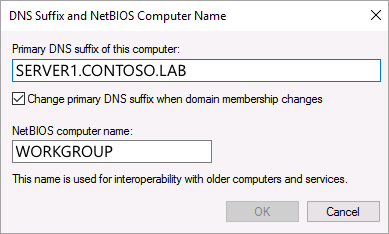
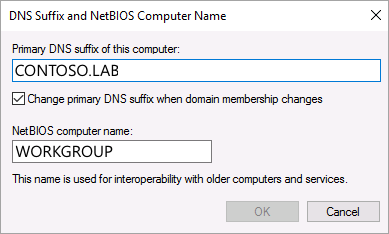
Fix UUF documentation issues: links, permissions, code, portal UI, setup wizard (#36666)
* Fix UUF content issues: broken link, priority clarification, DNS suffix guidance

* Apply suggestions from PR review

---------

Changed region(s): [[0.0308, 0.2692, 0.4936, 0.3291]]

diff --git a/docs/relational-databases/backup-restore/deleting-backup-blob-files-with-active-leases.md b/docs/relational-databases/backup-restore/deleting-backup-blob-files-with-active-leases.md
@@ -3,7 +3,7 @@ title: "Deleting Backup Blob Files with Active Leases"
 description: If a SQL Server backup or restore fails, a blob in Azure Storage can become orphaned. Learn how to delete an orphaned blob.
 author: MashaMSFT
 ms.author: mathoma
-ms.date: "08/17/2017"
+ms.date: "02/20/2026"
 ms.service: sql
 ms.subservice: backup-restore
 ms.topic: how-to
@@ -12,31 +12,31 @@ ms.topic: how-to
 
  [!INCLUDE [SQL Server](../../includes/applies-to-version/sqlserver.md)]
 
-When backing up to or restoring from Microsoft Azure storage, SQL Server acquires an infinite lease to lock exclusive access to the blob. When the backup or restore process is successfully completed, the lease is released. If a backup or restore fails, the backup process attempts to clean up any invalid blobs. However, if the backup fails due to prolonged or sustained network connectivity failure, the backup  process may not be able gain access to the blob and the blob may remain orphaned. This means the blob cannot be written to or deleted until the lease is released. This topic describes how to release (break) the lease and delete the blob.
+When you back up to or restore from Microsoft Azure storage, SQL Server acquires an infinite lease to lock exclusive access to the blob. When the backup or restore process finishes successfully, the process releases the lease. If a backup or restore fails, the backup process tries to clean up any invalid blobs. However, if prolonged or sustained network connectivity failure causes the backup to fail, the backup process might not be able to access the blob and the blob might remain orphaned. This condition means the blob can't be written to or deleted until the lease is released. This article describes how to release (break) the lease and delete the blob.
   
-For more information on lease types, read this [article](/rest/api/storageservices/Lease-Blob).  
+For more information, see [Lease Blob (REST API)](/rest/api/storageservices/Lease-Blob). 
   
-If the backup operation fails, it can result in an invalid backup file. The backup blob file might also have an active lease, preventing it from being deleted or overwritten. To delete or overwrite such blobs, the lease should first be released (broken). If there are backup failures, we recommend that you clean up leases and delete blobs. You can also periodically clean up leases and delete blobs as part of your storage management tasks.  
+If the backup operation fails, it can result in an invalid backup file. The backup blob file might also have an active lease, preventing it from being deleted or overwritten. To delete or overwrite such blobs, first release (break) the lease. If backup failures occur, clean up leases and delete blobs. You can also periodically clean up leases and delete blobs as part of your storage management tasks.  
   
-If there is a restore failure, subsequent restores are not blocked, so active lease may not be an issue. Breaking the lease is only necessary when you have to overwrite or delete the blob.  
+If a restore failure occurs, subsequent restores aren't blocked, so active lease might not be an issue. You only need to break the lease when you need to overwrite or delete the blob.  
   
 ## Manage orphaned blobs
 
-The follow steps describe how to clean up after failed backup or restore activity. You can do all the steps using PowerShell scripts. The following section includes an example PowerShell script:  
+The steps in this section describe how to clean up after failed backup or restore activity by using PowerShell.  
   
-1. **Identify blobs with leases:** If you have a script or a process that runs the backup processes, you might be able to capture the failure within the script or process and use that to clean up the blobs.  You can also use the LeaseStats and LeastState properties to identify blobs with leases on them. Once you have identified the blobs, review the list and verify the validity of the backup file before deleting the blob.  
+1. **Identify blobs with leases:** If you have a script or a process that runs the backup processes, you might be able to capture the failure within the script or process and use that failure to clean up the blobs. You can also use the `LeaseStats` and `LeastState` properties to identify blobs with leases on them. After you identify the blobs, review the list and verify the validity of the backup file before deleting the blob.  
   
 1. **Break the lease:** An authorized request can break the lease without supplying a lease ID. For more information, see [Lease Blob](/rest/api/storageservices/Lease-Blob).
   
     > [!TIP]  
-    > SQL Server issues a lease ID to establish exclusive access during the restore operation. The restore lease ID is BAC2BAC2BAC2BAC2BAC2BAC2BAC2BAC2.  
+    > SQL Server uses a lease ID to establish exclusive access during the restore operation. The restore lease ID is BAC2BAC2BAC2BAC2BAC2BAC2BAC2BAC2.  
   
-1. **Delete the Blob:** To delete a blob with an active lease, you must first break the lease.  
+1. **Delete the Blob:** To delete a blob with an active lease, first break the lease.  
 
 ###  <a name="Code_Example"></a> PowerShell script example  
   
 > [!IMPORTANT]
-> If you are running PowerShell 2.0, you may have problems loading the Microsoft WindowsAzure.Storage.dll assembly. We recommend that you upgrade [Powershell](/powershell/) to solve the issue. You can also use the following workaround to create or modify the powershell.exe.config file to load .NET 2.0 and .NET 4.0 assemblies at runtime with the following:  
+> If you're running PowerShell 2.0, you might have problems loading the Microsoft WindowsAzure.Storage.dll assembly. Upgrade [Powershell](/powershell/) to solve the problem. You can also use the following workaround to create or modify the powershell.exe.config file to load .NET 2.0 and .NET 4.0 assemblies at runtime:  
 >
 > ```xml
 > <?xml version="1.0"?>
@@ -53,13 +53,13 @@ The follow steps describe how to clean up after failed backup or restore activit
 #### Tips on running this script
   
 > [!WARNING]  
-> If a backup to Azure Blob Storage is running at the same time as this script, the backup can fail since this script will break the lease that the backup is trying to concurrently acquire. Run this script during a maintenance window or when no backups are running or expected to run.  
+> If a backup to Azure Blob Storage is running at the same time as this script, the backup can fail since this script breaks the lease that the backup is trying to concurrently acquire. Run this script during a maintenance window or when no backups are running or expected to run.  
   
-- Before you run this script, you should add values for the storage account, storage key, container, and the Azure storage assembly path and name parameters. The path of the storage is assembly is the installation directory of the instance of [!INCLUDE[ssNoVersion](../../includes/ssnoversion-md.md)]. The file name for the storage assembly is Microsoft.WindowsAzure.Storage.dll.
+- Before you run this script, add values for the storage account, storage key, container, and the Azure storage assembly path and name parameters. The path of the storage assembly is the installation directory of the instance of [!INCLUDE[ssNoVersion](../../includes/ssnoversion-md.md)]. The file name for the storage assembly is Microsoft.WindowsAzure.Storage.dll.
   
-- If there are no blobs with locked leases you should see the following message: `There are no blobs with locked lease status`
+- If there are no blobs with locked leases, you see the following message: `There are no blobs with locked lease status`
   
-- If there are blobs with locked leases, you should see the following messages: `Breaking Leases`, `The lease on <URL of the Blob> is a restore lease: You will see this message only if you have a blob with a restore lease that is still active.`, and `The lease on <URL of the Blob> is not a restore lease Breaking lease on <URL of the Bob>.`
+- If there are blobs with locked leases, you see the following messages: `Breaking Leases`, `The lease on <URL of the Blob> is a restore lease: You will see this message only if you have a blob with a restore lease that is still active.`, and `The lease on <URL of the Blob> is not a restore lease Breaking lease on <URL of the Bob>.`
   
 ```powershell
 $storageAccount = "<myStorageAccount>"
@@ -71,7 +71,7 @@ $storageAssemblyPathName = "<myStorageAssemblyPathName>"
 $restoreLeaseId = "BAC2BAC2BAC2BAC2BAC2BAC2BAC2BAC2"  
   
 # load the storage assembly without locking the file for the duration of the PowerShell session  
-$bytes = [System.IO.File]::ReadAllBytes($storageAssemblyPath)  
+$bytes = [System.IO.File]::ReadAllBytes($storageAssemblyPathName)  
 [System.Reflection.Assembly]::Load($bytes)  
   
 $cred = New-Object 'Microsoft.WindowsAzure.Storage.Auth.StorageCredentials' $storageAccount, $storageKey  

diff --git a/azure-sql/managed-instance/automated-backups-change-settings.md b/azure-sql/managed-instance/automated-backups-change-settings.md
@@ -5,7 +5,7 @@ description: Change point-in-time restore and backup redundancy options for auto
 author: dinethi
 ms.author: dinethi
 ms.reviewer: wiassaf, mathoma, strrodic, mlandzic
-ms.date: 07/08/2025
+ms.date: 02/23/2026
 ms.service: azure-sql-managed-instance
 ms.subservice: backup-restore
 ms.topic: how-to
@@ -127,15 +127,16 @@ For more information, see the [Backup retention PowerShell command](/powershell/
 #### Sample request
 
 ```http
-PUT https://management.azure.com/subscriptions/00000000-1111-2222-3333-444444444444/resourceGroups/resourceGroup/providers/Microsoft.Sql/managedInstances/testManagedInstance/databases/testDatabase/backupShortTermRetentionPolicies/default?api-version=2017-10-01-preview
+PATCH https://management.azure.com/subscriptions/00000000-1111-2222-3333-444444444444/resourceGroups/resourceGroup/providers/Microsoft.Sql/managedInstances/testSQLMI/databases/testdb/backupShortTermRetentionPolicies/default?api-version=2023-08-01
+
 ```
 
 #### Request body
 
 ```json
 {
-  "properties":{
-    "retentionDays":28
+  "properties": {
+    "retentionDays": 14
   }
 }
 ```
@@ -146,14 +147,21 @@ Status code: 200
 
 ```json
 {
-  "id": "/subscriptions/00000000-1111-2222-3333-444444444444/providers/Microsoft.Sql/resourceGroups/resourceGroup/managedInstances/testserver/databases/testDatabase/backupShortTermRetentionPolicies/default",
+  "id": "/subscriptions/00000000-1111-2222-3333-444444444444/resourceGroups/resourceGroup/providers/Microsoft.Sql/managedInstances/testSQLMI/databases/testdb/backupShortTermRetentionPolicies/default",
   "name": "default",
-  "type": "Microsoft.Sql/resourceGroups/managedInstances/databases/backupShortTermRetentionPolicies",
+  "type": "Microsoft.Sql/managedInstances/databases/backupShortTermRetentionPolicies",
   "properties": {
-    "retentionDays": 28
+    "retentionDays": 14
   }
 }
 ```
+
+Status code: 202
+
+```http
+Location: https://management.azure.com/subscriptions/00000000-1111-2222-3333-444444444444/providers/Microsoft.Sql/locations/westus/managedShortTermRetentionPolicyOperationResults/00000000-1111-2222-3333-444444444444?api-version=2017-03-01-preview
+```
+
 
 For more information, see the [Backup retention REST API](/rest/api/sql/managed-backup-short-term-retention-policies).
 

diff --git a/azure-sql/virtual-machines/windows/automated-backup.md b/azure-sql/virtual-machines/windows/automated-backup.md
@@ -4,7 +4,7 @@ description: This article explains the Automated Backup feature for SQL Server 2
 author: AbdullahMSFT
 ms.author: amamun
 ms.reviewer: mathoma
-ms.date: 09/22/2025
+ms.date: 02/23/2026
 ms.service: azure-vm-sql-server
 ms.subservice: backup
 ms.topic: how-to
@@ -134,9 +134,11 @@ The following Azure portal screenshot shows the **Automated Backup** settings wh
 
 For existing SQL Server virtual machines, go to the [SQL virtual machines resource](manage-sql-vm-portal.md#access-the-resource) and then select **Backups** to configure your Automated Backups.
 
-Select **Enable** to configure your Automated Backup settings.
+Select **Enable** on the **Automated Backup** tile to configure your Automated Backup settings: 
 
-You can configure the retention period (up to 90 days), the container for the storage account where you want to store your backups, the encryption, and the backup schedule. By default, the schedule is automated.
+:::image type="content" source="media/automated-backup/select-automated-backup.png" alt-text="Screenshot of how to select automated backup on the backup blade for your SQL VM in the Azure portal." lightbox="media/automated-backup/select-automated-backup.png":::
+
+On the **Backups** page, select **Enable** to turn on Automated Backup. You can configure the retention period (up to 90 days), the container for the storage account where you want to store your backups, the encryption, and the backup schedule. By default, the schedule is automated. Configure the settings as needed: 
 
 :::image type="content" source="./media/automated-backup/sql-server-configuration.png" alt-text="Screenshot of Automated Backup for existing VMs in the portal.":::
 
@@ -148,18 +150,18 @@ When finished, select the **Apply** button on the bottom of the **Backups** sett
 
 If you're enabling Automated Backup for the first time, Azure configures the SQL Server IaaS Agent in the background. During this time, the Azure portal might not show that Automated Backup is configured. Wait several minutes for the agent to be installed, configured. After that, the Azure portal will reflect the new settings.
 
+If you only see [Azure Backup](backup-restore.md#azbackup) as the backup type, then [Disable Azure Backup by deleting the associated Azure Vault](backup-restore.md#disable-azure-backup), and then choose **Automated Backup** to use Automated Backup instead.
+
 ## Configure with PowerShell
 
 You can use PowerShell to configure Automated Backup. Before you begin, you must:
 
-- [Download and install the latest Azure PowerShell](https://aka.ms/webpi-azps).
+- [Download and install the latest Azure PowerShell](/powershell/azure/install-azure-powershell).
 - Open Windows PowerShell and associate it with your account with the **Connect-AzAccount** command.
-
-[!INCLUDE [updated-for-az.md](../../includes/updated-for-az.md)]
 
 ### Install the SQL Server IaaS Extension
 
-If you provisioned a SQL Server virtual machine from the Azure portal, the SQL Server IaaS Extension should already be installed. You can determine whether it's installed for your VM by calling **Get-AzVM** command and examining the **Extensions** property.
+If you provisioned a SQL Server virtual machine from the Azure portal, the SQL Server IaaS Agent extension should already be installed. You can determine whether it's installed for your VM by calling **Get-AzVM** command and examining the **Extensions** property.
 
 ```powershell
 $vmname = "yourvmname"
@@ -170,7 +172,7 @@ $resourcegroupname = "yourresourcegroupname"
 
 If the SQL Server IaaS Agent extension is installed, you should see it listed as `SqlIaaSAgent` or `SQLIaaSExtension.` **ProvisioningState** for the extension should also show "Succeeded."
 
-If it isn't installed or it has failed to be provisioned, you can install it with the following command. In addition to the VM name and resource group, you must also specify the region (**$region**) that your VM is located in.
+If it isn't installed or provisioning failed, you can install it with the [Set-AzVMSqlServerExtension](/powershell/module/az.compute/set-azvmsqlserverextension) command. In addition to the VM name and resource group, you must also specify the region (**$region**) that your VM is located in.
 
 ```powershell
 $region = "EASTUS2"
@@ -425,6 +427,7 @@ The following table lists the possible solutions if you're having issues enablin
 | **Backup Multiple SQL instances using Automated Backup**   | Automated Backup currently only supports one SQL Server instance. If you have multiple named instances, and the default instance, Automated Backup works with the default instance. If you have multiple named instances and no default instance, turning on Automated Backup will fail. |
 | **Automated Backup can't be enabled due to account and permissions** | Check the following:  <br /> - The SQL Server Agent is running. <br /> - The  **NT Service\SqlIaaSExtensionQuery**  account has proper [permissions](sql-server-iaas-agent-extension-automate-management.md#permissions-models) for the Automated Backup feature both within SQL Server, and also for the [SQL virtual machines](manage-sql-vm-portal.md) resource in the Azure portal. <br /> - The **SA** account hasn't been renamed, though disabling the account is acceptable. |
 | **Automated Backup fails for SQL 2016 +**| **Allow Blob Public Access** is enabled on the storage Account. This solution provides a temporary workaround to a known issue. |
+|**The account being accessed does not have sufficient permissions to execute this operation** | This error occurs when the user lacks sufficient permissions to the storage account or container, or you select the default `$logs` container for backup storage. To resolve this issue, create a new container in your storage account and use that container for your backups instead of the default `$logs` container. |
 
 ### Common issues with Automated or Managed Backups
 

diff --git a/azure-sql/virtual-machines/windows/backup-restore.md b/azure-sql/virtual-machines/windows/backup-restore.md
@@ -70,6 +70,24 @@ For more information on how to configure Automated Backup for SQL VMs, see one o
 
 This Azure Backup solution for SQL VMs is generally available. For more information, see [Back up SQL Server database to Azure](/azure/backup/backup-azure-sql-database).
 
+To use Azure backup, you must first make sure Automated backup is disabled.
+
+### Disable Azure Backup
+
+To disable Azure Backups, you have to delete the associated vault. To delete the vault, follow these steps: 
+
+1. Go to [Recovery Services vaults in the Azure portal](https://portal.azure.com/#browse/Microsoft.RecoveryServices%2Fvaults) and select the vault that contains your SQL Server Azure Backups. 
+1. Under **Protected items** select **Backup items**.
+1. On the **Backup items** page, select the **SQL Database in Azure VM** backup management type. 
+1. Select the ellipses (...) next to each database, and then select **Stop backup** to go to the **Stop backup** page.
+1. On the **Stop backup** page, select **Delete backup data** and then select **OK** to disable Azure Backup and delete the backup data for that database.
+1. Go back to the vault, and under **Manage**, select **Backup Infrastructure**.
+1. On the **Overview** blade of the **Backup Infrastructure** page, select **Workload in Azure VM**.
+1. On the **Protected Servers (Workload in Azure VM)** page, select the ellipses (...) next to the SQL Server VM, and then select **Unregister** to remove the SQL Server VM from Azure Backup protection.
+1. Go back to the vault, and then use **Delete** to delete the vault. 
+1. After the vault is deleted, Azure Backup is disabled for your [SQL virtual machine resource](manage-sql-vm-portal.md#backups)
+
+
 <a id="manual"></a>
 
 ## Manual backup

diff --git a/docs/sql-server/failover-clusters/windows/upgrade-a-sql-server-failover-cluster-instance.md b/docs/sql-server/failover-clusters/windows/upgrade-a-sql-server-failover-cluster-instance.md
@@ -4,7 +4,7 @@ description: "Steps to upgrade a SQL Server Always On failover cluster instance 
 author: MashaMSFT
 ms.author: mathoma
 ms.reviewer: randolphwest
-ms.date: 12/16/2024
+ms.date: 02/23/2026
 ms.service: sql
 ms.subservice: failover-cluster-instance
 ms.topic: how-to
@@ -69,7 +69,9 @@ For more information about upgrading a Windows Server cluster, see [Cluster OS R
 
 1. From the [!INCLUDE [ssNoVersion](../../../includes/ssnoversion-md.md)] installation media for the edition that matches the edition you're upgrading, double-click setup.exe in the root folder. You might be asked to install the prerequisites, if they aren't previously installed.
 
-1. After prerequisites are installed, the Installation Wizard starts the [!INCLUDE [ssNoVersion](../../../includes/ssnoversion-md.md)] Installation Center. To upgrade an existing instance of [!INCLUDE [ssNoVersion](../../../includes/ssnoversion-md.md)], select your instance.
+1. After prerequisites are installed, the Installation Wizard starts the [!INCLUDE [ssNoVersion](../../../includes/ssnoversion-md.md)] Installation Center. 
+
+1. On the [!INCLUDE [ssNoVersion](../../../includes/ssnoversion-md.md)] Installation Center, select **Installation** and then select the **Upgrade from a previous version of SQL Server** option to start the upgrade process.
 
 1. If [!INCLUDE [ssNoVersion](../../../includes/ssnoversion-md.md)] setup support files are required, [!INCLUDE [ssNoVersion](../../../includes/ssnoversion-md.md)] setup installs them. If you're instructed to restart your computer, restart before you continue.
 
@@ -79,7 +81,7 @@ For more information about upgrading a Windows Server cluster, see [Cluster OS R
 
 1. On the License Terms page, read the license agreement, and then select the check box to accept the license terms and conditions. To help improve [!INCLUDE [ssNoVersion](../../../includes/ssnoversion-md.md)], you can also enable the feature usage option and send reports to [!INCLUDE [msCoName](../../../includes/msconame-md.md)]. **Click Next to continue**. To end Setup, select **Cancel**.
 
-1. On the Select Instance page, specify the [!INCLUDE [ssNoVersion](../../../includes/ssnoversion-md.md)] instance to upgrade. **Click Next to continue**.
+1. On the Select Instance page, specify the [!INCLUDE [ssNoVersion](../../../includes/ssnoversion-md.md)] instance to upgrade. Select **Next** to continue.
 
 1. On the Feature Selection page, the features to upgrade are preselected. A description for each component group appears in the right pane after you select the feature name. You can't change the features to be upgraded, and you can't add features during the upgrade operation. To add features to an upgraded instance of [!INCLUDE [ssSQL14](../../../includes/sssql14-md.md)] after the upgrade operation is complete, see [Add Features to an Instance of SQL Server (Setup)](../../../database-engine/install-windows/add-features-to-an-instance-of-sql-server-setup.md).
 
@@ -117,7 +119,7 @@ For more information about upgrading a Windows Server cluster, see [Cluster OS R
 
 Follow these steps to upgrade your Always On failover cluster instance in a multi-subnet environment.
 
-### Upgrade to a SQL Server multi-subnet failover cluster instance (existing SQL Server cluster is a non multi-subnet cluster)
+### Upgrade to a SQL Server multi-subnet failover cluster instance (existing SQL Server cluster is a non-multi-subnet cluster)
 
 1. Follow the previous steps to upgrade your failover cluster instance.
 

diff --git a/azure-sql/database/reservations-discount-overview.md b/azure-sql/database/reservations-discount-overview.md
@@ -2,10 +2,10 @@
 title: Save on compute costs with Azure Reservations
 titleSuffix: Azure SQL Database & SQL Managed Instance
 description: Learn how to buy Azure SQL Database and SQL Managed Instance reservations to save on your compute costs.
-author: rajeshsetlem
-ms.author: rsetlem
+author: WilliamDAssafMSFT
+ms.author: wiassaf
 ms.reviewer: wiassaf, mathoma
-ms.date: 12/01/2025
+ms.date: 02/23/2026
 ms.service: azure-sql
 ms.subservice: service-overview
 ms.topic: how-to
@@ -92,6 +92,9 @@ Carefully evaluate your compute needs and reservation strategy to optimize costs
 1. Fill in the required fields. Existing databases in SQL Database and SQL Managed Instance that match the attributes you select qualify to get the reservation discount. The actual number of databases or managed instances that get the discount depends on the scope and quantity selected.
 
     :::image type="content" source="./media/reserved-capacity-overview/sql-reserved-vcores-purchase.png" alt-text="Screenshot before submitting the reservation purchase.":::
+
+    > [!NOTE]
+    > The **Elastic pool** in the SQL Database name is the name of the Azure SQL resource, and does not imply that reservations are available for elastic pools.
 
     The following table describes the required fields.
     

diff --git a/docs/relational-databases/errors-events/mssqlserver-601-database-engine-error.md b/docs/relational-databases/errors-events/mssqlserver-601-database-engine-error.md
@@ -4,7 +4,8 @@ description: "MSSQLSERVER_601"
 author: MashaMSFT
 ms.author: mathoma
 ms.reviewer: randolphwest
-ms.date: 12/16/2024
+ms.date: 02/20/2026
+ai-usage: ai-assisted
 ms.service: sql
 ms.subservice: supportability
 ms.topic: "reference"
@@ -36,7 +37,7 @@ Typically, access to data that is being changed by another transaction is denied
 
 ## User action
 
-This error cancels the query. Either resubmit the query or remove the `NOLOCK` locking hint.
+This error cancels the query. Either resubmit the query or [remove the `NOLOCK` locking hint](../../t-sql/queries/hints-transact-sql-table.md#with-table-hint). Alternatively, use an appropriate [isolation level](../../t-sql/statements/set-transaction-isolation-level-transact-sql.md) such as `READ COMMITTED` (the default) or `SNAPSHOT` to avoid dirty reads while preventing this error.
 
 ## Related content
 

diff --git a/docs/database-engine/availability-groups/windows/domain-independent-availability-groups.md b/docs/database-engine/availability-groups/windows/domain-independent-availability-groups.md
@@ -60,6 +60,10 @@ A common DNS suffix is necessary for a domain independent availability group's w
 1. On the System Properties dialog, select **Change** on the Computer Name tab.
 1. On the Computer Name/Domain Changes dialog, select **More**.
 1. On the DNS Suffix and NetBIOS Computer Name dialog, enter the common DNS suffix as the **Primary DNS** suffix.
+
+   > [!NOTE]
+   > Specify only the DNS suffix (for example, `CONTOSO.LAB`), not the full computer name. Do not include the hostname in the DNS suffix field.
+
 1. Select **OK** to close the DNS Suffix and NetBIOS Computer Name dialog.
 1. Select **OK** to close the Computer Name/Domain Changes dialog.
 1. You're prompted to restart the server for the changes to take effect. Select **OK** to close the Computer Name/Domain Changes dialog.

diff --git a/azure-sql/managed-instance/sql-managed-instance-paas-overview.md b/azure-sql/managed-instance/sql-managed-instance-paas-overview.md
@@ -58,8 +58,7 @@ The following table provides key capabilities of Azure SQL Managed Instance:
 | Isolated environment ([Connectivity architecture for Azure SQL Managed Instance](connectivity-architecture-overview.md), single tenant service, dedicated compute and storage)<br />Adheres to the same compliance standards as Azure SQL Database<br />[Transparent data encryption (TDE)](/sql/relational-databases/security/encryption/transparent-data-encryption-azure-sql)<br />[Use Microsoft Entra authentication](../database/authentication-aad-overview.md), single sign-on support<br />[Microsoft Entra server principals (logins)](/sql/t-sql/statements/create-login-transact-sql?view=azuresqldb-mi-current&preserve-view=true)<br />[What is Windows Authentication for Microsoft Entra principals on Azure SQL Managed Instance?](winauth-azuread-overview.md)<br />[Get started with Azure SQL Managed Instance auditing](auditing-configure.md)<br />[Configure Advanced Threat Protection in Azure SQL Managed Instance](threat-detection-configure.md) | Azure Resource Manager API for automating service provisioning and scaling<br />Azure portal functionality for manual service provisioning and scaling<br />Data Migration Service |
 
 > [!IMPORTANT]  
-> Azure SQL Managed Instance is certified against a number of compliance standards. For more information, see the [Azure Compliance Offerings](https://servicetrust.microsoft.com/ViewPage/MSComplianceGuideV3?command=Download&downloadType=Document&downloadId=44bbae63-bf4d-4e3b-9d3d-c96fb25ec363&tab=7027ead0-3d6b-11e9-b9e1-290b1eb4cdeb&docTab=7027ead0-3d6b-11e9-b9e1-290b1eb4cdeb_FAQ_and_White_Papers), where you can find the most current list of Azure SQL Managed Instance compliance certifications, listed under **Azure SQL Database**.
-
+> Azure SQL Managed Instance is certified against a number of compliance standards. For more information, see the [Microsoft Trust Center](https://www.microsoft.com/trust-center/compliance/compliance-overview), where you can find the most current list of Azure SQL Managed Instance compliance certifications.
 The following table shows characteristics of SQL Managed Instance:
 
 | Feature | Description |

diff --git a/azure-sql/managed-instance/public-endpoint-configure.md b/azure-sql/managed-instance/public-endpoint-configure.md
@@ -169,7 +169,7 @@ Use the Azure portal to allow public traffic within the network security group. 
    |**Destination port ranges**     |3342         |Scope destination port to 3342, which is the SQL managed instance public TDS endpoint |
    |**Protocol**     |TCP         |SQL Managed Instance uses TCP protocol for TDS |
    |**Action**     |Allow         |Allow inbound traffic to SQL managed instance through the public endpoint |
-   |**Priority**     |1300         |Make sure this rule is higher priority than the **deny_all_inbound** rule |
+   |**Priority**     |1300         |Make sure this rule has a lower priority number than the **deny_all_inbound** rule (lower numbers = higher priority, for example, 1300 is higher priority than 2000) |
 
    :::image type="content" source="./media/public-endpoint-configure/mi-nsg-rules.png" alt-text="Screenshot shows the Inbound security rules with your new public_endpoint_inbound rule above the deny_all_inbound rule.":::
 

diff --git a/azure-sql/virtual-machines/windows/manage-sql-vm-portal.md b/azure-sql/virtual-machines/windows/manage-sql-vm-portal.md
@@ -106,6 +106,8 @@ Use the **Backups** page of the SQL virtual machines resource to choose between 
 
 Regardless of which backup solution you choose, you can use the **Backups** page to configure your backup settings, such as the retention period, backup storage location, encryption, whether or not to back up system databases, and a backup schedule.
 
+To use Azure backup, you must first make sure Automated backup is disabled.
+
 ## Modernization Advisor (preview)
 
 The [Modernization Advisor (Preview)](../modernization-advisor.md) assesses your SQL Server workload to identify cost-saving or performance optimizations you might gain by migrating to Azure SQL Managed Instance. This feature is currently in preview.

diff --git a/docs/t-sql/queries/hints-transact-sql-table.md b/docs/t-sql/queries/hints-transact-sql-table.md
@@ -112,6 +112,8 @@ WITH  ( <table_hint> [ [ , ] ...n ] )
 
 ## Arguments
 
+<a id="with-table-hint"></a>
+
 #### WITH ( *<table_hint>* ) [ [ , ] ...*n* ]
 
 With some exceptions, table hints are supported in the `FROM` clause only when the hints are specified with the `WITH` keyword. Table hints also must be specified with parentheses.